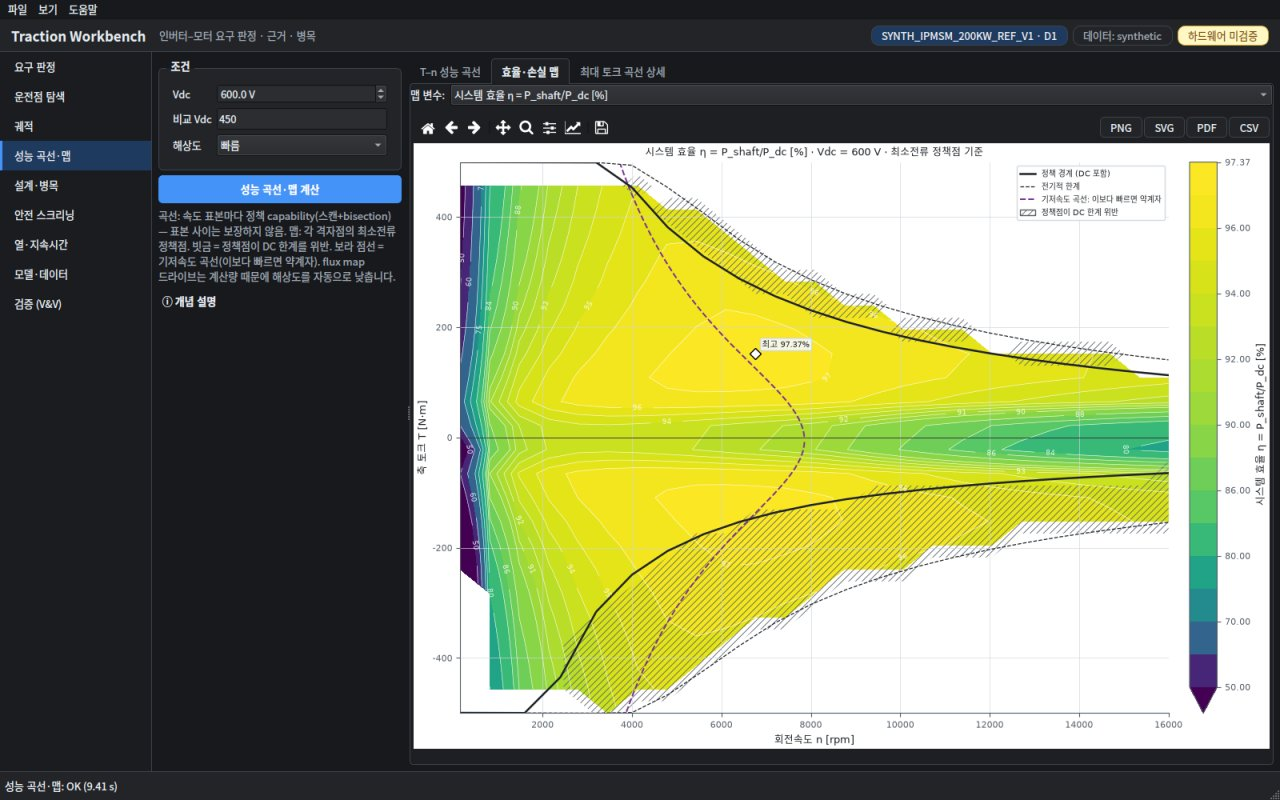
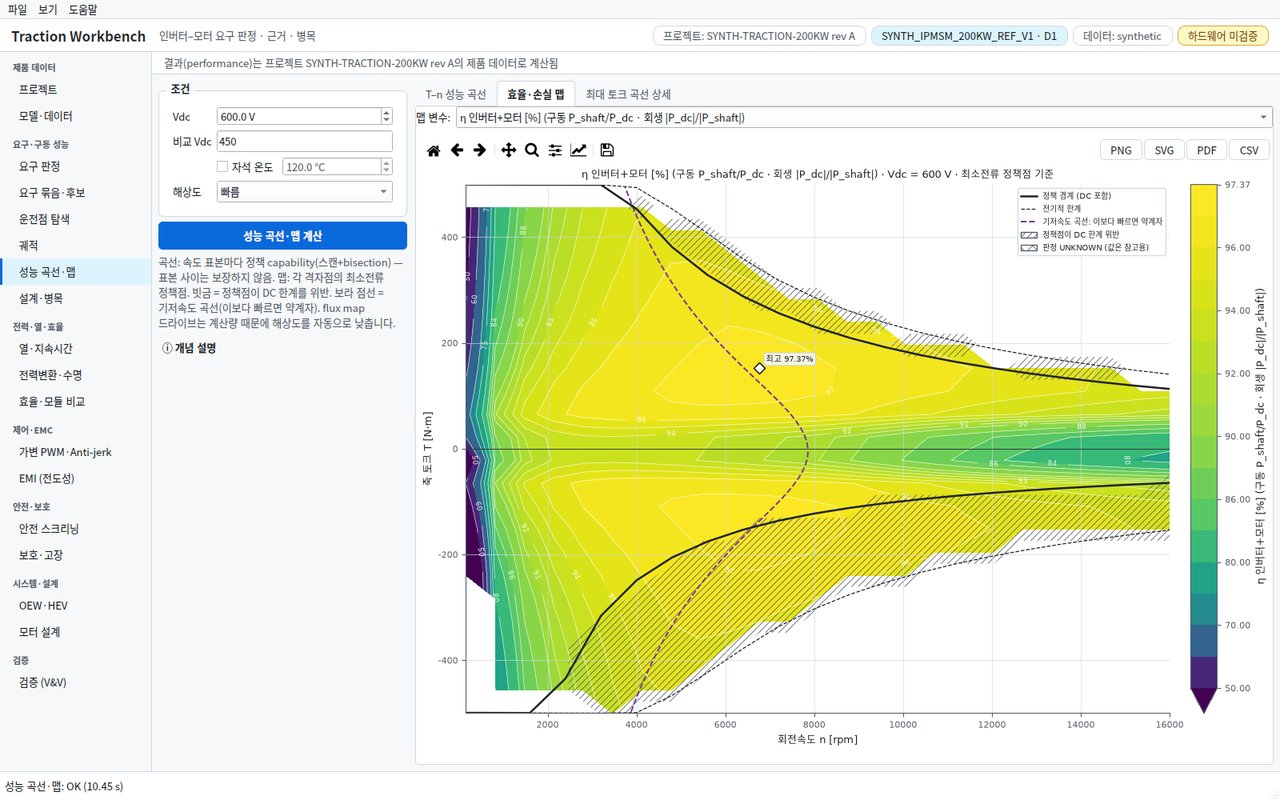
README: refresh the screenshots and the graph gallery to the current app
The gallery showed ten captures from the first desktop version (nine
pages).  It now shows 38 current screens grouped like the app's navigation:

- decision and drive performance;
- requirement sets and candidates;
- power, thermal and efficiency;
- control and EMC;
- safety and protection;
- system and machine design;
- product data and verification.

Each screen has a caption saying what the graph shows.  The top image and
the MathWorks dialog are refreshed too.

- docs/make_screenshots.py takes the captures from the desktop self-test
  (light theme, 1600 x 1000, the same run as CI) and writes them to
  docs/screenshots at 1280 px wide; a failing self-test publishes nothing.
- Results table: the 550-650 V range requirement is PASS through the
  monotonicity certificate (it read UNKNOWN from sampling).
- Verification status (pytest 807, self-test 65/65, the three CI jobs) and
  the repository layout (requirement_set, analysis/source,
  extensions/thermal_cycle, docs/STATUS.md) are brought up to date.
- Two images no longer used (dark_theme, thermal_editor) are removed.

Claude-Session: https://claude.ai/code/session_01B38Geehi8ePT9MwunfsVeo

diff --git a/docs/make_screenshots.py b/docs/make_screenshots.py
@@ -1,0 +1,107 @@
+#!/usr/bin/env python3
+"""Refresh the README screenshots from the desktop self-test.
+
+    python docs/make_screenshots.py                          # runs `twb selftest out/readme_selftest`, then converts
+    python docs/make_screenshots.py --from out/selftest      # converts an existing self-test output
+    python docs/make_screenshots.py --prune                  # also deletes docs/screenshots/*.jpg no longer mapped
+
+The self-test drives every page through its real code path in the light theme at 1600 x 1000 (deterministic, the
+same run CI does); this script copies the chosen window captures to docs/screenshots/<name>.jpg, at most 1280 px
+wide.  A failing self-test publishes nothing.  SHOTS is the README gallery: change it together with README.md.
+"""
+
+from __future__ import annotations
+
+import argparse
+import os
+import subprocess
+import sys
+from pathlib import Path
+
+ROOT = Path(__file__).resolve().parents[1]
+DEST = ROOT / "docs" / "screenshots"
+WIDTH = 1280
+
+# README image -> self-test capture (the names in desktop/selftest.py)
+SHOTS = {
+    "decision": "01_decision_summary",
+    "system_overview": "02_decision_view_0",
+    "idiq_map": "02_decision_view_1",
+    "waveforms": "02_decision_view_2",
+    "phasor_hexagon": "02_decision_view_3",
+    "decision_inverse": "04_decision_analyses",
+    "trajectory": "06_trajectory_speed",
+    "envelope": "09_envelope",
+    "efficiency_map": "10_map_eta",
+    "requirement_set": "12a_requirement_set",
+    "requirement_candidates": "12c_requirement_candidates",
+    "ftti": "14_safety_ftti",
+    "passive_discharge": "15a_safety_passive",
+    "dclink_overvoltage": "15b_safety_overvoltage",
+    "safe_state": "16_safety_state",
+    "thermal": "17_thermal",
+    "thermal_network": "17b_thermal_network",
+    "thermal_repeated_load": "17e_thermal_repeated_load",
+    "project": "18b_project",
+    "datasheet_import": "18d_datasheet_import",
+    "mathworks_package": "18e_mathworks_package",
+    "datasheet_entry": "18f_datasheet_entry_motor",
+    "verification": "19_verification",
+    "protection_timeline": "22_protection_timeline",
+    "asc_transient": "25_asc_transient",
+    "power_module": "26_power_module",
+    "power_ripple": "27_power_ripple",
+    "power_life": "28_power_life",
+    "oew": "29_oew_sets",
+    "hev": "34_hev_joint",
+    "emi_spectrum": "37_emi_spectrum",
+    "machine_trade": "40_machine_trade",
+    "machine_winding": "41_machine_winding",
+    "efficiency_ledger": "43_efficiency_point",
+    "efficiency_boundaries": "44_efficiency_maps",
+    "efficiency_mission": "45_efficiency_mission",
+    "module_ab": "46_module_ab",
+    "pwm_policies": "47_pwm_policies",
+    "pwm_timing": "48_pwm_timing",
+    "antijerk": "49_antijerk_variants",
+}
+
+
+def main() -> int:
+    ap = argparse.ArgumentParser(description=__doc__.split("\n\n")[0])
+    ap.add_argument("--from", dest="src", default=None, help="an existing self-test output folder")
+    ap.add_argument("--prune", action="store_true", help="delete docs/screenshots/*.jpg that SHOTS no longer maps")
+    a = ap.parse_args()
+    from PIL import Image                       # matplotlib's dependency, present with the [gui] extra
+
+    src = Path(a.src) if a.src else ROOT / "out" / "readme_selftest"
+    if a.src is None:
+        env = dict(os.environ, QT_QPA_PLATFORM="offscreen")
+        rc = subprocess.run([sys.executable, "-m", "traction_workbench.cli", "selftest", str(src)], cwd=ROOT,
+                            env=env).returncode
+        if rc != 0:
+            print(f"the self-test failed (see {src / 'selftest.json'}): no screenshot was changed", file=sys.stderr)
+            return rc
+    missing = [cap for cap in SHOTS.values() if not (src / f"{cap}.png").is_file()]
+    if missing:
+        print(f"captures missing in {src}: {missing}", file=sys.stderr)
+        return 1
+    DEST.mkdir(parents=True, exist_ok=True)
+    for name, cap in SHOTS.items():
+        im = Image.open(src / f"{cap}.png").convert("RGB")
+        if im.width > WIDTH:
+            im = im.resize((WIDTH, round(im.height * WIDTH / im.width)), Image.LANCZOS)
+        im.save(DEST / f"{name}.jpg", quality=85, optimize=True, progressive=True)
+    print(f"{len(SHOTS)} screenshots -> {DEST}")
+    stale = sorted(p.name for p in DEST.glob("*.jpg") if p.stem not in SHOTS)
+    if stale and a.prune:
+        for n in stale:
+            (DEST / n).unlink()
+        print(f"deleted (no longer in the gallery): {', '.join(stale)}")
+    elif stale:
+        print(f"not in the gallery (use --prune to delete): {', '.join(stale)}")
+    return 0
+
+
+if __name__ == "__main__":
+    sys.exit(main())

diff --git a/README.md b/README.md
@@ -49,21 +49,85 @@
 
 ## 전문가용 그래프
 
+아래 화면은 모두 데스크톱 self-test(`twb selftest`)가 각 페이지를 실제 코드 경로로 실행한 그대로의 캡처입니다(내장 합성 예제 데이터,
+`python docs/make_screenshots.py`로 다시 만듭니다). 이미지를 누르면 원본 크기로 볼 수 있습니다.
+
+### 요구 판정·구동 성능
+
 | | |
 |---|---|
 | ![id–iq 제약 지도](docs/screenshots/idiq_map.jpg) | ![상 파형](docs/screenshots/waveforms.jpg) |
 | **id–iq 제약 지도**: 전압 타원(명령 예산·하드웨어 상한), 전류원, 선언 도메인, DC 방전/충전 한계, 등토크선, MTPA, MTPV(참고), 요구 토크 곡선, 최소전류 정책점, 전기적/DC 포함 가능 영역 | **상 파형**: 역 Park로 복원한 상전류, 상/선간 전압과 명령 예산, SVPWM 상 듀티(min-max 영상분, 평균값 모델)와 전압 reserve 대역, 쇄교자속, p(t) = P_ac 확인 |
-| ![벡터도](docs/screenshots/phasor_hexagon.jpg) | ![효율 맵](docs/screenshots/efficiency_map.jpg) |
-| **dq 벡터도**: e₀ = ω_eψ_PM, ω_eL_d·i_d(약계자 전압), −ω_eL_q·i_q, R_s·i, v와 전류각·φ·역률·자석/릴럭턴스 토크 분해 / **공간벡터 육각형** | **효율·손실 맵**: 최소전류 정책점 기준 η, 정책 경계·전기적 한계, 기저속도 곡선, DC 한계 위반 영역(빗금), 최고 효율점 |
-| ![궤적](docs/screenshots/trajectory.jpg) | ![열](docs/screenshots/thermal.jpg) |
-| **운전 궤적**: 속도가 오르며 MTPA에서 전압 타원을 따라 약계자로 이동하는 경로, DC 한계 위반점 | **열 → 토크 가용성**: 지속시간별 가용 토크와 노드 온도 궤적(노드별 냉각수 기준 온도 표시) |
-| ![시스템 개요](docs/screenshots/system_overview.jpg) | ![배터리 차단](docs/screenshots/dclink_overvoltage.jpg) |
-| **시스템 개요도**: 배터리–메인 릴레이(프리차지)–DC 링크–능동 방전–3상 브리지–모터–축, 운전점의 P_dc·I_dc·I_ph·V_LL·토크·효율과 전력 흐름 방향 | **회생 중 배터리 차단**: 릴레이 개방(빨강)과 회생 전력이 커패시터로만 들어가는 경로, 아래에 V(t)와 허용 반응 시간 |
-| ![열 회로망](docs/screenshots/thermal_network.jpg) | ![열 모델 편집](docs/screenshots/thermal_editor.jpg) |
-| **열 회로망**: Foster(병렬 RC 직렬)·Cauer(사다리) 회로도와 냉각수 순환(라디에이터·펌프 → 인버터 냉각판 → 모터 워터재킷, 각 지점 온도) | **열 모델 편집**: 노드별 발열원·비율·냉각수 위치, 단 표(R, τ 또는 C, 계산된 C 또는 R·C, 유량 의존), 4단 템플릿, 붙여넣기 |
+| ![벡터도](docs/screenshots/phasor_hexagon.jpg) | ![시스템 개요](docs/screenshots/system_overview.jpg) |
+| **dq 벡터도 · 공간벡터 육각형**: e₀ = ω_eψ_PM, ω_eL_d·i_d(약계자 전압), −ω_eL_q·i_q, R_s·i, v와 전류각·φ·역률·자석/릴럭턴스 토크 분해 | **시스템 개요도**: 배터리–메인 릴레이(프리차지)–DC 링크–능동 방전–3상 브리지–모터–축, 운전점의 P_dc·I_dc·I_ph·V_LL·토크·효율과 전력 흐름 방향 |
+| ![T–n 성능 곡선](docs/screenshots/envelope.jpg) | ![효율 맵](docs/screenshots/efficiency_map.jpg) |
+| **T–n 성능 곡선**: 최소전류 정책(DC 한계 포함) vs 전기적 곡선, 활성 제약별 색(전류 · 전압 · DC 방전/충전), 비교 Vdc, 구동·회생 사분면 | **효율·손실 맵**: 최소전류 정책점 기준 η(방향별 정의), 정책 경계·전기적 한계, 기저속도 곡선, DC 한계 위반·미상 손실 칸(빗금), 최고 효율점 |
+| ![운전 궤적](docs/screenshots/trajectory.jpg) | ![역설계](docs/screenshots/decision_inverse.jpg) |
+| **운전 궤적**: 속도가 오르며 MTPA에서 전압 타원을 따라 약계자로 이동하는 경로, DC 한계 위반점 | **FAIL → 무엇을 바꿔야 하나**: 450 V에서 필요조건으로 불가능이 증명된 요구(인버터를 키워도 해결 안 됨), capability vs Vdc 역설계 — 국소 경계 497.7 V. 인버터 전류 역설계·병목·완화·시나리오 비교 탭 |
+
+### 요구 묶음·후보
+
+| | |
+|---|---|
+| ![요구 묶음](docs/screenshots/requirement_set.jpg) | ![후보 × 요구](docs/screenshots/requirement_candidates.jpg) |
+| **요구 묶음**: 요구 5건을 같은 제품·조건·근거로 한 번에 판정 — 판정, UNKNOWN 원인 분류, 여유, 모델 없이 되는 사양 필요조건, 제한 원인, 다음 자료. 선택한 요구의 상세는 요구 → 조건·데이터 수준 → 결론·여유 → 제한 원인 → 바꿀 항목 → 다음 자료 순서 | **후보 × 요구**: 설계 변경안마다 모든 요구를 다시 판정(개선 ▲ / 악화 ▼ — 충전 한계 150 kW는 REQ-B를 풀고, 전류 250 A는 네 요구를 깸). 가중 점수·비용 최적 없음 |
+
+### 전력·열·효율
+
+| | |
+|---|---|
+| ![열 → 토크 가용성](docs/screenshots/thermal.jpg) | ![반복 부하](docs/screenshots/thermal_repeated_load.jpg) |
+| **열 → 토크 가용성**: 지속시간별 가용 토크와 노드 온도 궤적(노드별 냉각수 기준 온도 표시), 냉각수 입구·유량·부동액 물성. 검증되지 않은 열모델은 스크리닝(UNKNOWN 유지) | **반복 부하·고온 시작**: 450 N·m 8 s / 50 N·m 20 s를 40주기 — 첫 한계 4.24 s, 주기 정상상태(고정점)의 노드 최고온도와 여유, 허용 펄스 시간·토크(구간 안 최고온도 기준), 반복 전 필요 휴지 |
+| ![열 회로망](docs/screenshots/thermal_network.jpg) | ![모듈 손실](docs/screenshots/power_module.jpg) |
+| **열 회로망**: Foster(병렬 RC 직렬)·Cauer(사다리) 회로도와 냉각수 순환(라디에이터·펌프 → 인버터 냉각판 → 모터 워터재킷, 각 지점 온도) | **데이터시트 모듈 손실**: 소자별 도통·스위칭 손실, 토크에 따른 인버터 손실(모델 비교), 소자별 T_j — 표 밖은 외삽하지 않고 UNKNOWN |
+| ![DC-link 리플](docs/screenshots/power_ripple.jpg) | ![열 사이클·수명](docs/screenshots/power_life.jpg) |
+| **DC-link 리플**: 스위칭 주기의 커패시터 전류, 전류 스펙트럼과 ESR(f) 손실, 리플 전압, 커패시터 열·수명 게이트 | **열 사이클·수명**: 미션 → 소자별 T_j 이력 → rainflow ΔT_j 분포, 조건부 손상(공급사 사이클 모델이 없으면 UNKNOWN) |
+| ![효율 원장](docs/screenshots/efficiency_ledger.jpg) | ![경계별 효율 지도](docs/screenshots/efficiency_boundaries.jpg) |
+| **다섯 경계 효율·손실 원장**: 포트 전력 P_dc → P_ac → P_m → P_o, 확정 손실과 미상 항목, 모터 PWM 동손(R_dc 하한)과 Fe+PM HF 상한(점선 — 값이 아니라 구간의 끝), 경계별 η와 PWM을 포함한 η 구간 | **경계별 효율 지도**: 인버터 · 모터 · 인버터+모터 · eDrive η 지도(구동/회생 방향별 정의, 미상 칸 빗금, clamp 없음) |
+| ![미션 에너지](docs/screenshots/efficiency_mission.jpg) | ![모듈 A/B](docs/screenshots/module_ab.jpg) |
+| **미션 에너지**: 구간별 포트 전력, 포트별 E+ / E−, 방향별 에너지 효율(구동과 회생을 따로 — 순 에너지 비는 효율이 아님) | **모듈 A/B (IGBT vs SiC)**: 고정 정책 vs 설계별 정책, 운전점별 손실과 T_j(T_j는 결과), 선언된 오차 예산을 넘을 때만 우열 |
+
+### 제어·EMC
+
+| | |
+|---|---|
+| ![가변 PWM](docs/screenshots/pwm_policies.jpg) | ![타이밍·전환](docs/screenshots/pwm_timing.jpg) |
+| **가변 PWM 정책 비교**: 같은 궤적에서 고정 10 kHz · 경부하 8 kHz · 열 fallback 6 kHz — fsw 스케줄(× 요청 ≠ 파형 fsw), 에너지 구간 [확정, 확정 + PWM 동손 · Fe+PM 상한](겹치면 UNDECIDED), 필수 제약(T_j · 피크 전류 상한 · 커패시터 전류 · 위상 여유) | **타이밍·전환**: 지연 원장 → 캐리어 주파수별 전류 루프 위상 여유, fsw가 바꾸는 전류 루프·기계 모드 위상, shadow vs 즉시 reload(카운터 수준 검사) |
+| ![Anti-jerk](docs/screenshots/antijerk.jpg) | ![전도성 EMI](docs/screenshots/emi_spectrum.jpg) |
+| **Anti-jerk (2관성 드라이브라인)**: 20 → 150 N·m tip-in에서 off · 성형 · 피드백 · 결합 비교 — 실제 토크, 차량 가속도, jerk, 축 토크. jerk·정착 요구는 결합만 FEASIBLE | **전도성 EMI**: 스위칭 순서 소스 → CM/DM 경로 → RBW 선 합 추정 vs 한도(설계 여유 6 dB), 연속 대역 정확 열거, 대역별 필요 감쇠(CM/DM 지배). 스크리닝은 PASS가 아님 — 여기서는 3.8 MHz에서 최대 68.9 dB 초과 예측으로 UNKNOWN |
+
+### 안전·보호
+
+| | |
+|---|---|
+| ![FTTI](docs/screenshots/ftti.jpg) | ![배터리 차단](docs/screenshots/dclink_overvoltage.jpg) |
+| **FTTI 체인**: 고장 → 검출 → 확인 → 반응 → 안전 상태의 Gantt(최소/명목/최대), 중복 예산 검출, 보장 상한 경로와 FTTI 여유, 안전 종점의 종류 | **회생 중 배터리 차단**: 릴레이 개방(빨강)과 회생 전력이 커패시터로만 들어가는 경로, 아래에 V(t)와 허용 반응 시간 |
+| ![패시브 방전](docs/screenshots/passive_discharge.jpg) | ![안전 상태](docs/screenshots/safe_state.jpg) |
+| **패시브 방전**: 블리더 R_p 설계 창 — 목표 전압까지의 시간 vs 상시 손실, 방전 회로와 V(t) | **안전 상태 (ASC / Freewheel)**: 같은 운전점(12,000 rpm · 600 V)에서 두 회로의 전류 경로, 프로젝트 규칙(물리와 분리된 계층). 속도별 전류·토크·역기전력 곡선과 판정 표 탭 |
+| ![보호 타임라인](docs/screenshots/protection_timeline.jpg) | ![ASC 과도](docs/screenshots/asc_transient.jpg) |
+| **보호·고장 인과 궤적**: 임계값·디레이팅·고장 반응을 하나의 궤적에서 — DC-link 전압, 경고·고장·차단 임계값, 필터·확인 지연을 거친 반응 시각 | **ASC 고장 과도**: 운전점 → 단락 → ASC 정상상태의 상전류(비선형 자기 모델이 없으면 선형 스크리닝), 고객의 두 전류-시간 요구(피크·RMS)와 판정 |
+
+### 시스템·설계
+
+| | |
+|---|---|
+| ![OEW](docs/screenshots/oew.jpg) | ![HEV](docs/screenshots/hev.jpg) |
+| **OEW 듀얼 인버터**: 두 브리지의 전압 집합(육각형), 공통 bus / 분리 bus 비교, 영상분 제어. 운전점·포트 회계·쌍 안전 상태·i0 리플 탭 | **HEV 결합 토크 집합**: 두 기계(EM1 발전 · EM2 구동)의 동시 토크 가능 영역(공통 bus 전력·부스트 한계), 가지 전력 vs 순전력. 크랭킹 replay·부하 차단·유성기어 탭 |
+| ![모터 스케일링](docs/screenshots/machine_trade.jpg) | ![권선](docs/screenshots/machine_winding.jpg) |
+| **모터 설계 — 스케일링 트레이드**: 기준 모델 주변의 턴·병렬 회로·적층·자석 스케일링 후보를 같은 요구 여유로 비교(T–n 곡선, 요구별 여유 표), 계보와 무효화되는 데이터 | **권선 star of slots**: 48슬롯 8극(q = 2) — 슬롯 기전력 페이저, 권선계수·고조파, 상 배치(A/B/C), 평형·병렬 회로 |
+
+### 제품 데이터·검증
+
+| | |
+|---|---|
+| ![프로젝트](docs/screenshots/project.jpg) | ![데이터시트 값 입력](docs/screenshots/datasheet_entry.jpg) |
+| **프로젝트 데이터 패키지**: 한 제품의 섹션(drive · dc_source · module · dc_link · 제어기 · 열망 · 안전 · EMI set-up)과 digest·출처·개정, 일관성 검사, 개정 비교와 stale 표시 | **데이터시트 값 입력 (모터)**: 극수 · Ke · R · L 등 대표값 → 선언된 구성 규칙으로 모델(단위 변환·규칙 기록), 실시간 미리보기(무부하 역기전력 vs Vdc, MTPA·특성 전류) |
+| ![데이터시트 곡선](docs/screenshots/datasheet_import.jpg) | ![검증](docs/screenshots/verification.jpg) |
+| **데이터시트 곡선 가져오기**: 디지타이즈한 모듈 도통·스위칭 에너지 곡선(25 / 150 °C) → 공급사 provenance가 붙은 프로젝트 섹션, 외삽 없음 | **검증 (V&V)**: production vs golden acceptance 21/21(오차 / 허용오차), 참조 패키지 SHA-256, 알려진 한계 |
 
 그래프는 production 모델 값을 그대로 다시 표현한 것입니다(새 물리 없음). 파형·듀티는 스위칭 리플·데드타임이 없는 평균값 모델이며
 그림과 보고서에 그렇게 표기됩니다. 테스트가 역변환·전력 항등식·MTPA 접선 조건·기저속도 = 약계자 개시점을 독립적으로 확인합니다.
+모든 값은 합성(synthetic) 예제 데이터의 결과이며 하드웨어로 검증된 제품 수치가 아닙니다.
 
 ## 무엇이 다른가
 
@@ -86,7 +150,7 @@
 | 12,000 rpm · −80 N·m 회생 | **PASS** | 에너지 회수 회생, 충전 한계 내 |
 | 12,000 rpm · −100 N·m 회생 | **FAIL** | 최대 손실(600 A)로도 P_dc ≤ −111.3 kW < −100 kW: 배터리 수용 한계 |
 | 6,000 rpm · 350 N·m | **FAIL** | 손실 0이어도 축 출력 219.9 kW > 방전 200 kW |
-| Vdc 550–650 V 전 구간 · 100 N·m | **UNKNOWN** | 표본 5점 모두 가능하지만 연속 구간 보장은 아님 (SAMPLED_COVERAGE) |
+| Vdc 550–650 V 전 구간 · 100 N·m | **PASS** | 저전압 끝점 + **단조성 인증서**(정적 순구동, Vdc 무관 손실, 고정 소스 한계)로 전 구간 입증 — 표본점 통과만으로는 PASS가 아님 |
 | 정지 · 300 N·m | **PASS** (정적) | 등가 정현파 RMS, 효율 N/A, 정지 열 지속시간 추론 없음 |
 
 ## 개발·빌드
@@ -155,14 +219,17 @@ src/traction_workbench/
     models/                드라이브 모델: 모터·인버터·자속, 데이터시트 모듈 손실(module_loss.py — 커널이 평가, 2차 surrogate와 배타)
     physics.py             커널: 정방향 평가·제약, 손실 계약(loss_kind · i2_dc · pointwise_loss) — DC 논증의 분기는 여기 한 곳
     solvers/gate.py        공통 witness gate (모든 경로)
-    analysis/              역설계·병목·불확실성·정격, efficiency.py(다섯 경계·감속기·미션·모듈 A/B), machine_design.py
+    analysis/              역설계·병목·불확실성·정격, efficiency.py(다섯 경계·감속기·미션·모듈 A/B), machine_design.py,
+                           source.py(배터리 OCV + Thevenin R_eq → 단자 전압)
     extensions/            timing·dclink·safe_state·thermal·coolant (스크리닝), dclink_ripple·lifetime (P1-A),
-                           protection·asc_transient (P1-B), emi (P1-C), oew·hev, pwm_policy (가변 PWM), driveline (anti-jerk)
+                           protection·asc_transient (P1-B), emi (P1-C), oew·hev, pwm_policy (가변 PWM), driveline (anti-jerk),
+                           thermal_cycle (반복 부하·고온 시작)
   exchange.py    교환 패키지 twb-exchange/1 (규약·fixture) — 이식 패키지가 그대로 포함
   mathworks/     MathWorks 이식 패키지 twb-mathworks/1: contract(규약·물리량 사전), oracle(엔진 비의존 층-1 값), cases, architecture
                  (System Composer/SLDD 후보), package(export·check·run·verify), matlab/+twb (native MATLAB 코드)
   datasheet.py   데이터시트 가져오기 (디지타이즈 곡선·대표값·ESR·dv/dt·모터 특성값 → 프로젝트 섹션, 구성 규칙은 기록으로)
   project.py     프로젝트 데이터 패키지 (twb-project/1): 섹션 검증·digest·일관성 규칙·개정 비교·결과의 사용 기록
+  requirement_set.py  요구 묶음·후보 판정 (CSV, 해석 확인, 사양 필요조건, UNKNOWN 원인 분류, 다음 자료 우선순위)
   examples.py    내장 합성 프로젝트 — 모든 페이지 예시의 제품 데이터 출처 (api.example(name, project)로 합성)
   modulation.py  변조 법칙 하나 (SVPWM·SPWM·DPWM1 듀티·영상분) — 손실·EMI·리플·샘플링·그림이 공유
   validation.py  입력 숫자·구간·축 검증 (모든 층이 공유)
@@ -177,13 +244,15 @@ verification/    independent_fixture_check.py (production 비의존), make_repor
 tests/           골든·의미론·검증·리뷰 재현(P0-A/B)·확장·P1·OEW/HEV·EMI·효율·PWM·드라이브라인·모터 설계·교환·보고서·데스크톱,
                  아키텍처(층 base < models < kernel < engines < services < presentation, 지연 import 포함·비공개 결합·순환)
 examples/        case 파일, 단위가 선언된 drive 정의, datasheets/ (곡선·대표값·모터 spec 예시 — 가상 부품)
-docs/            RELEASE_NOTES.md (모델 계약·한계), TRACEABILITY.md (리뷰·추가 명세 추적표), VERIFICATION_REPORT.md, screenshots/
+docs/            RELEASE_NOTES.md (모델 계약·한계), TRACEABILITY.md (리뷰·추가 명세 추적표), VERIFICATION_REPORT.md,
+                 STATUS.md (현재 상태·남은 일·이어서 시작하는 법), screenshots/ (make_screenshots.py로 self-test 화면에서 갱신)
 ```
 
 ## 검증 상태
 
-- 참조 패키지 10개 파일 SHA-256 일치, 독립 검산 136/136, production vs golden 21/21, pytest 662 통과, 데스크톱 self-test 57/57,
-  Windows CI에서 동결된 exe로 acceptance·self-test 통과 — 상세: [`docs/VERIFICATION_REPORT.md`](docs/VERIFICATION_REPORT.md)
+- 참조 패키지 10개 파일 SHA-256 일치, 독립 검산 136/136, production vs golden 21/21, pytest 807 통과, 데스크톱 self-test 65/65.
+  CI 세 job(Linux 테스트 · MathWorks/Octave · Windows 동결 exe의 acceptance·self-test) 통과 — 상세: [`docs/VERIFICATION_REPORT.md`](docs/VERIFICATION_REPORT.md)
+  (보고서 머리에 생성 commit 표기)
 - MathWorks 이식 패키지: 패키지의 MATLAB 코드를 **GNU Octave 8.4**(MATLAB 언어 호환 proxy)로 실행해 79 PASS · 0 FAIL · 0 ERROR ·
   1 NOT_SUPPORTED, guard 6/6, 심은 결함 9종 모두 검출. **MATLAB 본체·Simulink·System Composer는 실행하지 않았습니다**(NOT_RUN).
 - **합성 fixture에 대한 verification입니다.** 하드웨어·공급사 데이터·외부 시뮬레이터 validation은 수행하지 않았습니다(V4–V5 미수행).
